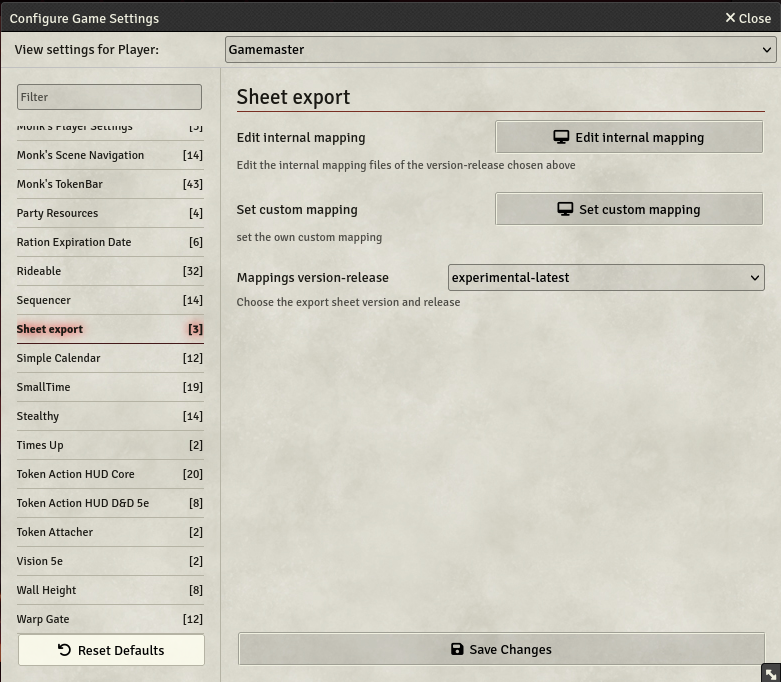
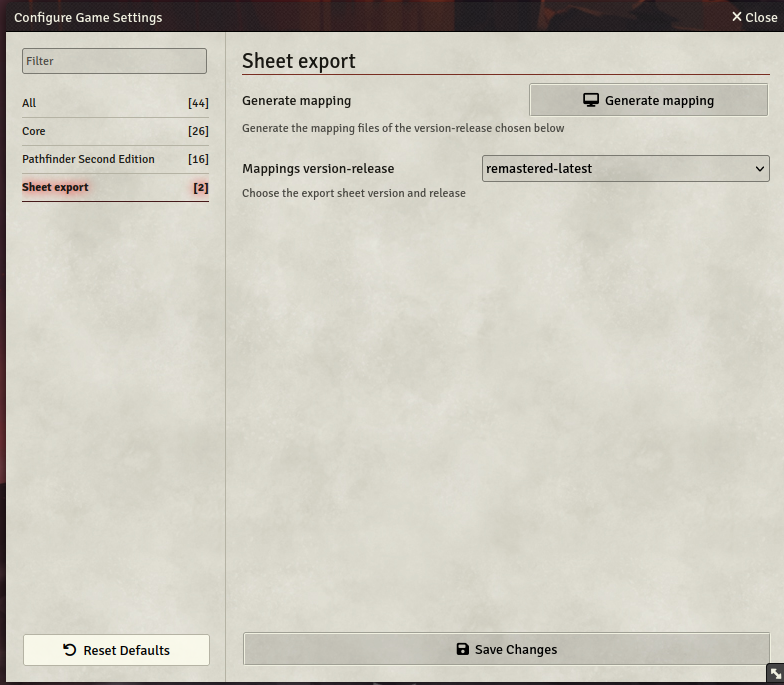
doc: rewritten documentation accordingly to the mapping as class

diff --git a/README.md b/README.md
@@ -11,33 +11,24 @@ It aims to offer the ability to export in PDF all the sheets for PC, NPC, Spells
 At the moment the module manages:
 
 
-| Game System | Version  | Release | Sheets | Description                                                                                  |
-| ------------- | ---------- | --------- | -------- | ---------------------------------------------------------------------------------------------- |
-| dnd5e       | standard | 2.3.x   | PC     | The classical PC PDF from WotC for the PC for 2.3.x release                                  |
-|             |          |         | NPC    | a custom PDF for NPC for 2.3.x release                                                       |
-|             |          | latest  | PC     | The classical PC PDF from WotC for the PC for latest release                                 |
-|             |          |         | NPC    | a custom PDF for NPC for latest release                                                      |
-|             | custom   | latest  | -      | The folder dedicated to keep custom mapping from the user                                    |
-|             | extended | 2.3.x   | PC     | A union of the classical WotC with extended pages for equipment and spells for 2.3.x release |
-|             |          |         | NPC    | a custom PDF for NPC for 2.3.x release                                                       |
-|             |          | latest  | PC     | A union of the classical WotC with extended pages for equipment and spells                   |
-|             |          |         | NPC    | a custom PDF for NPC                                                                         |
-|             | BR       | latest  | PC     | The Brazilian version of the classical PC PDF from WotC for the PC for latest release        |
-| CoC7        | standard | latest  | PC     | The classical PC PDF for Call Of Cthulhu                                                     |
-|             | custom   | latest  | -      | The folder dedicated to keep custom mapping from the user                                    |
-| pfe2        | standard | latest  | PC     | The classical PC PDF for Pathfinder 2° Edition                                              |
-|             | custom   | latest  | -      | The folder dedicated to keep custom mapping from the user                                    |
+| Game System | Version    | Release | Sheets | Mantainer                             | Description                                                                           |
+| ------------- | ------------ | --------- | -------- | --------------------------------------- | --------------------------------------------------------------------------------------- |
+| dnd5e       | standard   | latest  | PC     |                                       | The classical PC PDF from WotC for the PC for latest release                          |
+|             |            |         | NPC    |                                       | a custom PDF for NPC for latest release                                               |
+|             | extended   | latest  | PC     |                                       | A union of the classical WotC with extended pages for equipment and spells            |
+|             |            |         | NPC    |                                       | a custom PDF for NPC                                                                  |
+|             | BR         | latest  | PC     |                                       | The Brazilian version of the classical PC PDF from WotC for the PC for latest release |
+| CoC7        | standard   | latest  | PC     |                                       | The classical PC PDF for Call Of Cthulhu                                              |
+| pfe2        | remastered | latest  | PC     | [bushvin](https://github.com/bushvin) | The remastered PC PDF for Pathfinder 2° Edition                                      |
 
 ## Features
 
-1. Allow to choose different mapping from the ones aviable for the game system
-2. Allow to export images
-3. Allow to override the default PDF with own both at export time or at config time
-4. Allow to cusomize mapping in configuration
-5. Error management that explain precisely which mapping field had problems
-6. Generate mapping file from PDF form by uploading PDF
-7. Allow to define own helper function
-8. Allow to set/override custom fonts on PDF
+1. Allow to choose different mapping from the ones aviable for the game system (like in the case of dnd5e with standard and extended)
+2. Allow to export images in the PDF
+3. Error management that explain precisely which mapping field had problems
+4. Generate mapping file from PDF form by uploading PDF
+5. Allow to code the mapping in a dedicated class with the option of creating own functions to help the work
+6. Override PDF (it has to have the same mapping attributes to work)
 
 ## Documentation
 
@@ -58,86 +49,43 @@ Applying the data to the PDF could require some time so wait untill it is finish
 By pressing the round printer button the PDF is generated and downloaded to your computer.
 
 ### Mapping file
-The json example rpresents the new mapping file.
-Each PDF field is part of the fields element that can container a **pdf** field that HAVE to be tha same name of the field in the PDF, **content** is the javascript coded to execute to retrieve the proper content to place in the filed, the optional fields **font** and **font_size** allow to override font and its size.
 
-**Helper functions**
+The mapping file is a JS file that has to be names "player.js" or "npc.js" and contain a class named **MappingClass** that inherits from the base class
 
-The **helperFunctions** field allow to add custom functions needed in the content generation; to use tham, following the example the function MUST be invoked using the following syntax: **functionSet.**testFunction()
+```javascript
+import baseMapping from "../../../../scripts/baseMapping.js";
 
-**Overriding fonts**
-To override fonts you have to add an object in the **fonts** array with the following structure:
-- id: the same ID used in the PDF file
-- path: the path to the font file; local to the mapping file.
+class MappingClass extends baseMapping {
 
-The ID will HAVE to be used in the field element with the **font** field.
 
-**Images**
-Images can be embedded in the generated PDF, the fields describe where position it considering that the PDF (0,0) origin start in the left bottom of each page and pages start with 0 index.
+    authors = [
+        {
+            name: 'gioppoluca',
+            url: 'https://github.com/gioppoluca',
+            github: 'https://github.com/gioppoluca',
+        },
+    ];
+    this.pdfFiles.push({
+            pdfUrl: '/modules/sheet-export/mappings/THE_GAME_SYSTEM/YOUR_PDF_FILENAME.pdf',
+            nameDownload: \`\${this.actor.name ?? "character"}.pdf\`,
+            name: "YOUR_PDF_FILENAME.pdf",
+        });
+    createMappings() {
+      // HERE THE MAPPING CODE
+      ...
 
-**Global content**
-In the **globalContent** element we can add custom javascript code that will create content that will be accessible to each following fields execution.  This can be used to generate content that have to be splitted into several different fields.
-There is the `functionSet.secm.getContentChunk('name_of_the_global_content')` to retrieve the content by automatically filling the PDF field with the chunk that will fit it.
-
-``` json
-{
-  "releasemin": "",
-  "pdfUrl": "/modules/sheet-export/mappings/game_system/standard/latest/pdf_file_name.pdf",
-  "helperFunctions": {
-    "testFunction": "function testFunction(items) {console.log(items);}"
-  },
-  "fonts": [
-    {
-      "id": "font_name",
-      "path": "/modules/sheet-export/mappings/game_system/standard/latest/font_name.ttf"
+      // HERE THE CODE TO EMBED THE IMAGE
+      this.setImage(this.actor.img, 2, 40, 500, 120, 200);
     }
-  ],
-  "globalContent": [
-    {
-      "content": "(function(h) {\n      const d = document.createElement(\"div\");\n      d.innerHTML = h;\n      return d.textContent || d.innerText || \"\";\n    })(@system.details.biography.value)\n ",
-      "id": "biography"
-    }
-  ],
-  "images": [
-    {
-      "path": "@img",
-      "page": 0,
-      "pos_x": 0,
-      "pos_y": 0,
-      "width": 100,
-      "height": 100
-    }
-  ],
-  "fields": [
-    {
-      "content": " @items.filter(i => i.type === 'class').map(i => `${i.name} ${i.system.levels}`).join(' / ') ",
-      "pdf": "player",
-      "font": "font_name",
-      "font_size": 19
-    },
-    {
-      "content": " functionSet.testFunction(@items) ",
-      "pdf": "ClassLevel"
-    },
-    {
-      "content": " functionSet.secm.getContentChunk('biography')",
-      "pdf": "text1",
-      "font": "font_name",
-      "font_size": 9
-    },
-    {
-      "content": " functionSet.secm.getContentChunk('biography')",
-      "pdf": "text2"
-    }
-  ]
-}
 ```
 
-#### Mapping override
-It is possible to override mapping by writing javascrit code in the `system-functions.js` file in the specific mapping folder.
-There are 2 functions that can be used to override mapping:
-- **getAtReplacement**: this function defines the string to be used to replace teh **@** that is tipically used in the mapping
-- **preMapping**: this function is called BEFORE the actual mapping is done (AND before the @ replacement takes place); the whole mapping fiedls array is passed and it is expected that it is returned, this way it will be possible for the mapping author to alter add or delete mapping fields.  It can be useful for those fields that are repetitive and could be generated dynamically and programmatically so that there is no need to edit the mapping file for all those fields (like in the spells or skills).  In the class there are already aviable the actor, the sheet and the sheetType, so it is also possible to return the content of those fields.  Just remember that the array is an array of JSON objects and thus the content need to be a string that will be subsequently parsed by the execute function. In the mapping it will be possible to reference content of the class like this: ` "content": " functionSet.system.myCustomFunctionCreatedInClass('biography')" ` or ` "content": " functionSet.system.myCustomAttributeInTheClass" `
+**Add images**
+Images can be embedded in the generated PDF; as shown in the code above there is a function to call: the parameters are (image path to embed, page of the pdf, x position, y position, width, height).
+
+**Global content**
+The base class offers a function to keep content that could be splitted in different fields.
+**setGlobalValue** function has a key parameter and the mapping value to assign the **Global Value**.
+With the **getGlobalValue** it is ossible to get a number of charcters of the global content by passing (key to the content, start char, end char) the syntax is the same as the substring function.
 
 ### Settings
 
@@ -145,21 +93,18 @@ The settings form presents the drop down list for choosing the mapping for the g
 
 ![Settings](img/settings.png)
 
-The **Edit internal mapping** button opens a dialog to see the content of the mapping file; you will be able to change the scripting of the mapping but beware since this could break the mapping, the advice is to download the mapping file from the module and to customize it by using the custom mapping option.
+The **Genarate mapping** button opens a dialog to access the button **Generate mapping for PC from PDF** allows you to generate the JS mapping file from the PDF file you will upload: you will get a js file with all PDF fields listed and all the mapping empty for you to complete.
 
 ![edit mapping](img/edit-mapping.png)
 
-The button **Generate mapping from PDF** allows you to generate the mapping file from the PDF file you will upload: you will get a json file with all PDF fields listed and all the mapping empty for you to complete.
-
-The button **Set custom mapping** in the settings form allows you to upload yours json and PDF files.
-
-![custom mapping](img/custom-mapping.png)
 
 ## Changelog
+
 [Changelog](CHANGELOG.md)
 
 ## Support
+
 Please open issues on this repo for any problems that you can have using this module.
 
-If you want to support this work 
+If you want to support this work
 <a href="https://www.buymeacoffee.com/lucagioppo" target="_blank"><img src="https://cdn.buymeacoffee.com/buttons/v2/default-yellow.png" alt="Buy Me A Coffee" style="height: 60px !important;width: 217px !important;" ></a>
